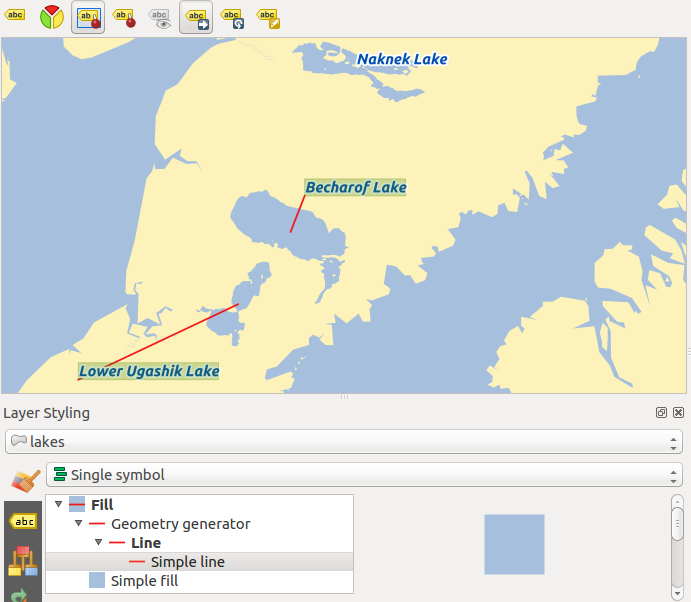
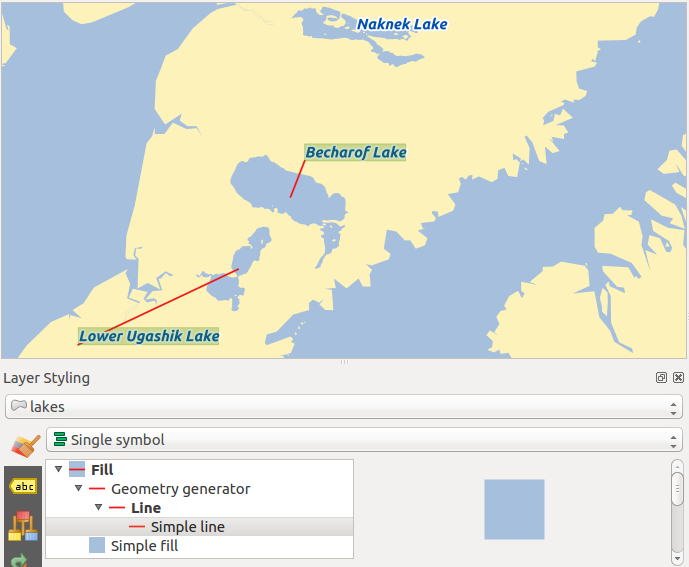
Emphasize relation between Data-defined labeling and the Label toolbar
Move label toolbar description from diagram section to label's
Create a full descriptive section of label toolbar
Update screenshots (removing the set of tools from the moved_labels.png)

Changed region(s): [[0.0, 0.0, 1.0, 1.0], [0.701, 0.9295, 0.7925, 0.9594], [0.701, 0.8395, 0.7925, 0.8695]]

diff --git a/source/docs/user_manual/working_with_vector/vector_properties.rst b/source/docs/user_manual/working_with_vector/vector_properties.rst
@@ -1339,13 +1339,68 @@ to create simple and very complex expressions to label your data in QGIS. See
 Using data-defined override for labeling
 ----------------------------------------
 
-With the data-defined override functions, the settings for the labeling
-are overridden by entries in the attribute table.
-You can activate and deactivate the function with the right-mouse button.
-Hover over the symbol and you see the information about the data-defined override,
-including the current definition field.
+With the |dataDefined| :sup:`Data defined override` functions, the settings for
+the labeling are overridden by entries in the attribute table. It can be used to
+set values for most of the labeling options described above. See the widget's
+description and manipulation in :ref:`data_defined` section. 
+
+.. _label_toolbar:
+
+The Label Toolbar
+.................
+
+The :guilabel:`Label Toolbar` provides some tools to manipulate |labeling|
+:ref:`label <vector_labels_tab>` or |diagram| :ref:`diagram <sec_diagram>`
+properties, but only if the corresponding data-defined option is indicated
+(otherwise, buttons are disabled). Layer might also need to be in edit mode.
+
+.. _figure_labels_tools:
+
+.. figure:: /static/user_manual/working_with_vector/diagram_toolbar.png
+   :align: center
+
+   The Label toolbar
+
+These tools allow to specifically work on each label or diagram to:
+
+* |pinLabels| :sup:`Pin/Unpin Labels And Diagrams` that has data-defined
+  position. By clicking or draging an area, you pin label(s). If you click or
+  drag an area holding :kbd:`Shift`, label(s) are unpinned. Finally, you can
+  also click or drag an area holding :kbd:`Ctrl` to toggle the pin status of
+  label(s).
+* |showPinnedLabels| :sup:`Highlight Pinned Labels And Diagrams`. If the
+  vector layer of the label is editable, then the highlighting is green,
+  otherwise it's blue.
+* |moveLabel| :sup:`Move Label And Diagram` that has data-defined
+  position. You just have to drag the label to the desired place.
+* |showHideLabels| :sup:`Show/Hide Labels And Diagrams` that has
+  data-defined visbility. If you click or drag an area holding :kbd:`Shift`,
+  then label(s) are hidden. When a label is hidden, you just have to click
+  or drag an area around the feature's point to restore its visibility.
+* |rotateLabel| :sup:`Rotate Label`. Click the label and move around and
+  you get the text rotated.
+* |changeLabelProperties| :sup:`Change Label`. It opens a dialog to change the
+  clicked label properties; it can be the label itself, its coordinates, angle,
+  font, size... as long as this property has been mapped to a field.
+  
+.. warning:: **Label tools overwrites current field values**
+
+  Using the :guilabel:`Label toolbar` to customize the labeling actually writes
+  the new value of the property in the mapped field. Hence, be careful to not
+  inadvertently replace and corrupt data you may need!
+
+.. note:: While for readability, ``label`` has been used in the above tools
+ description, note that when mentioned in their name, they work almost the
+ same way with diagram.
+
+
+Customize the labels from the map canvas
+........................................
+
+Combined with the :guilabel:`Label Toolbar`, the data defined override setting
+helps you manipulate labels in the map canvas (move, edit, rotate).
 We now describe an example using the data-defined override function for the
-|moveLabel|:sup:`Move label` function (see figure_labels_data_defined_ ).
+|moveLabel|:sup:`Move label` function (see figure_labels_data_defined_).
 
 #. Import :file:`lakes.shp` from the QGIS sample dataset.
 #. Double-click the layer to open the Layer Properties. Click on :guilabel:`Labels`
@@ -1353,6 +1408,14 @@ We now describe an example using the data-defined override function for the
 #. Look for the :guilabel:`Data defined` entries. Click the |dataDefined| icon
    to define the field type for the :guilabel:`Coordinate`. Choose ``xlabel``
    for X and ``ylabel`` for Y. The icons are now highlighted in yellow.
+
+   .. _figure_labels_data_defined:
+
+   .. figure:: /static/user_manual/working_with_vector/label_data_defined.png
+      :align: center
+
+      Labeling of vector polygon layers with data-defined override
+
 #. Zoom into a lake.
 #. Set editable the layer using the |toggleEditing| :sup:`Toggle Editing` button.
 #. Go to the Label toolbar and click the |moveLabel| icon.
@@ -1366,20 +1429,13 @@ We now describe an example using the data-defined override function for the
    
       make_line( centroid( $geometry ), make_point( "xlabel", "ylabel" ) )
 
-.. _figure_labels_data_defined:
 
-.. figure:: /static/user_manual/working_with_vector/label_data_defined.png
-   :align: center
+   .. _figure_labels_move:
 
-   Labeling of vector polygon layers with data-defined override
+   .. figure:: /static/user_manual/working_with_vector/move_label.png
+      :align: center
 
-
-.. _figure_labels_move:
-
-.. figure:: /static/user_manual/working_with_vector/move_label.png
-   :align: center
-
-   Moved labels
+      Moved labels
 
 .. _rule_based_labeling:
 
@@ -1927,33 +1983,7 @@ rendering:
 * position in :guilabel:`Placement` tab by filling ``X`` and ``Y`` fields
 * visibility in :guilabel:`Appearance` tab by filling the ``Visibility`` field
 
-Some tools to manipulate these notions are available through the label toolbar,
-but only if the corresponding data-defined is indicated (otherwise, buttons are
-disabled).
-
-.. _figure_diagrams_tools:
-
-.. figure:: /static/user_manual/working_with_vector/diagram_toolbar.png
-   :align: center
-
-   Diagram/Label toolbar
-
-These tools allow to specifically work on each diagram to:
-
-* |pinLabels| :sup:`Pin/Unpin Labels And Diagrams` that has data-defined
-  position. By clicking or draging an area, you pin diagram(s). If you click or
-  drag an area holding :kbd:`Shift`, diagram(s) are unpinned. Finally, you can
-  also click or drag an area holding :kbd:`Ctrl` to toggle the pin status of
-  diagram(s).
-* |showPinnedLabels| :sup:`Highlight Pinned Labels And Diagrams`. If the
-  vector layer of the diagram is editable, then the highlighting is green,
-  otherwise it's blue.
-* |moveLabel| :sup:`Move Label And Diagram` that has data-defined
-  position. You just have to drag the diagram to the desired place.
-* |showHideLabels| :sup:`Show/Hide Labels And Diagrams` that has
-  data-defined visbility. If you click or drag an area holding :kbd:`Shift`,
-  then diagram(s) are hidden. When a diagram is hidden, you just have to click
-  or drag an area around the feature's point to restore the chart.
+See :ref:`data_defined_labeling` for more information.
 
 .. index:: Tab; Actions
 .. _actions_menu:
